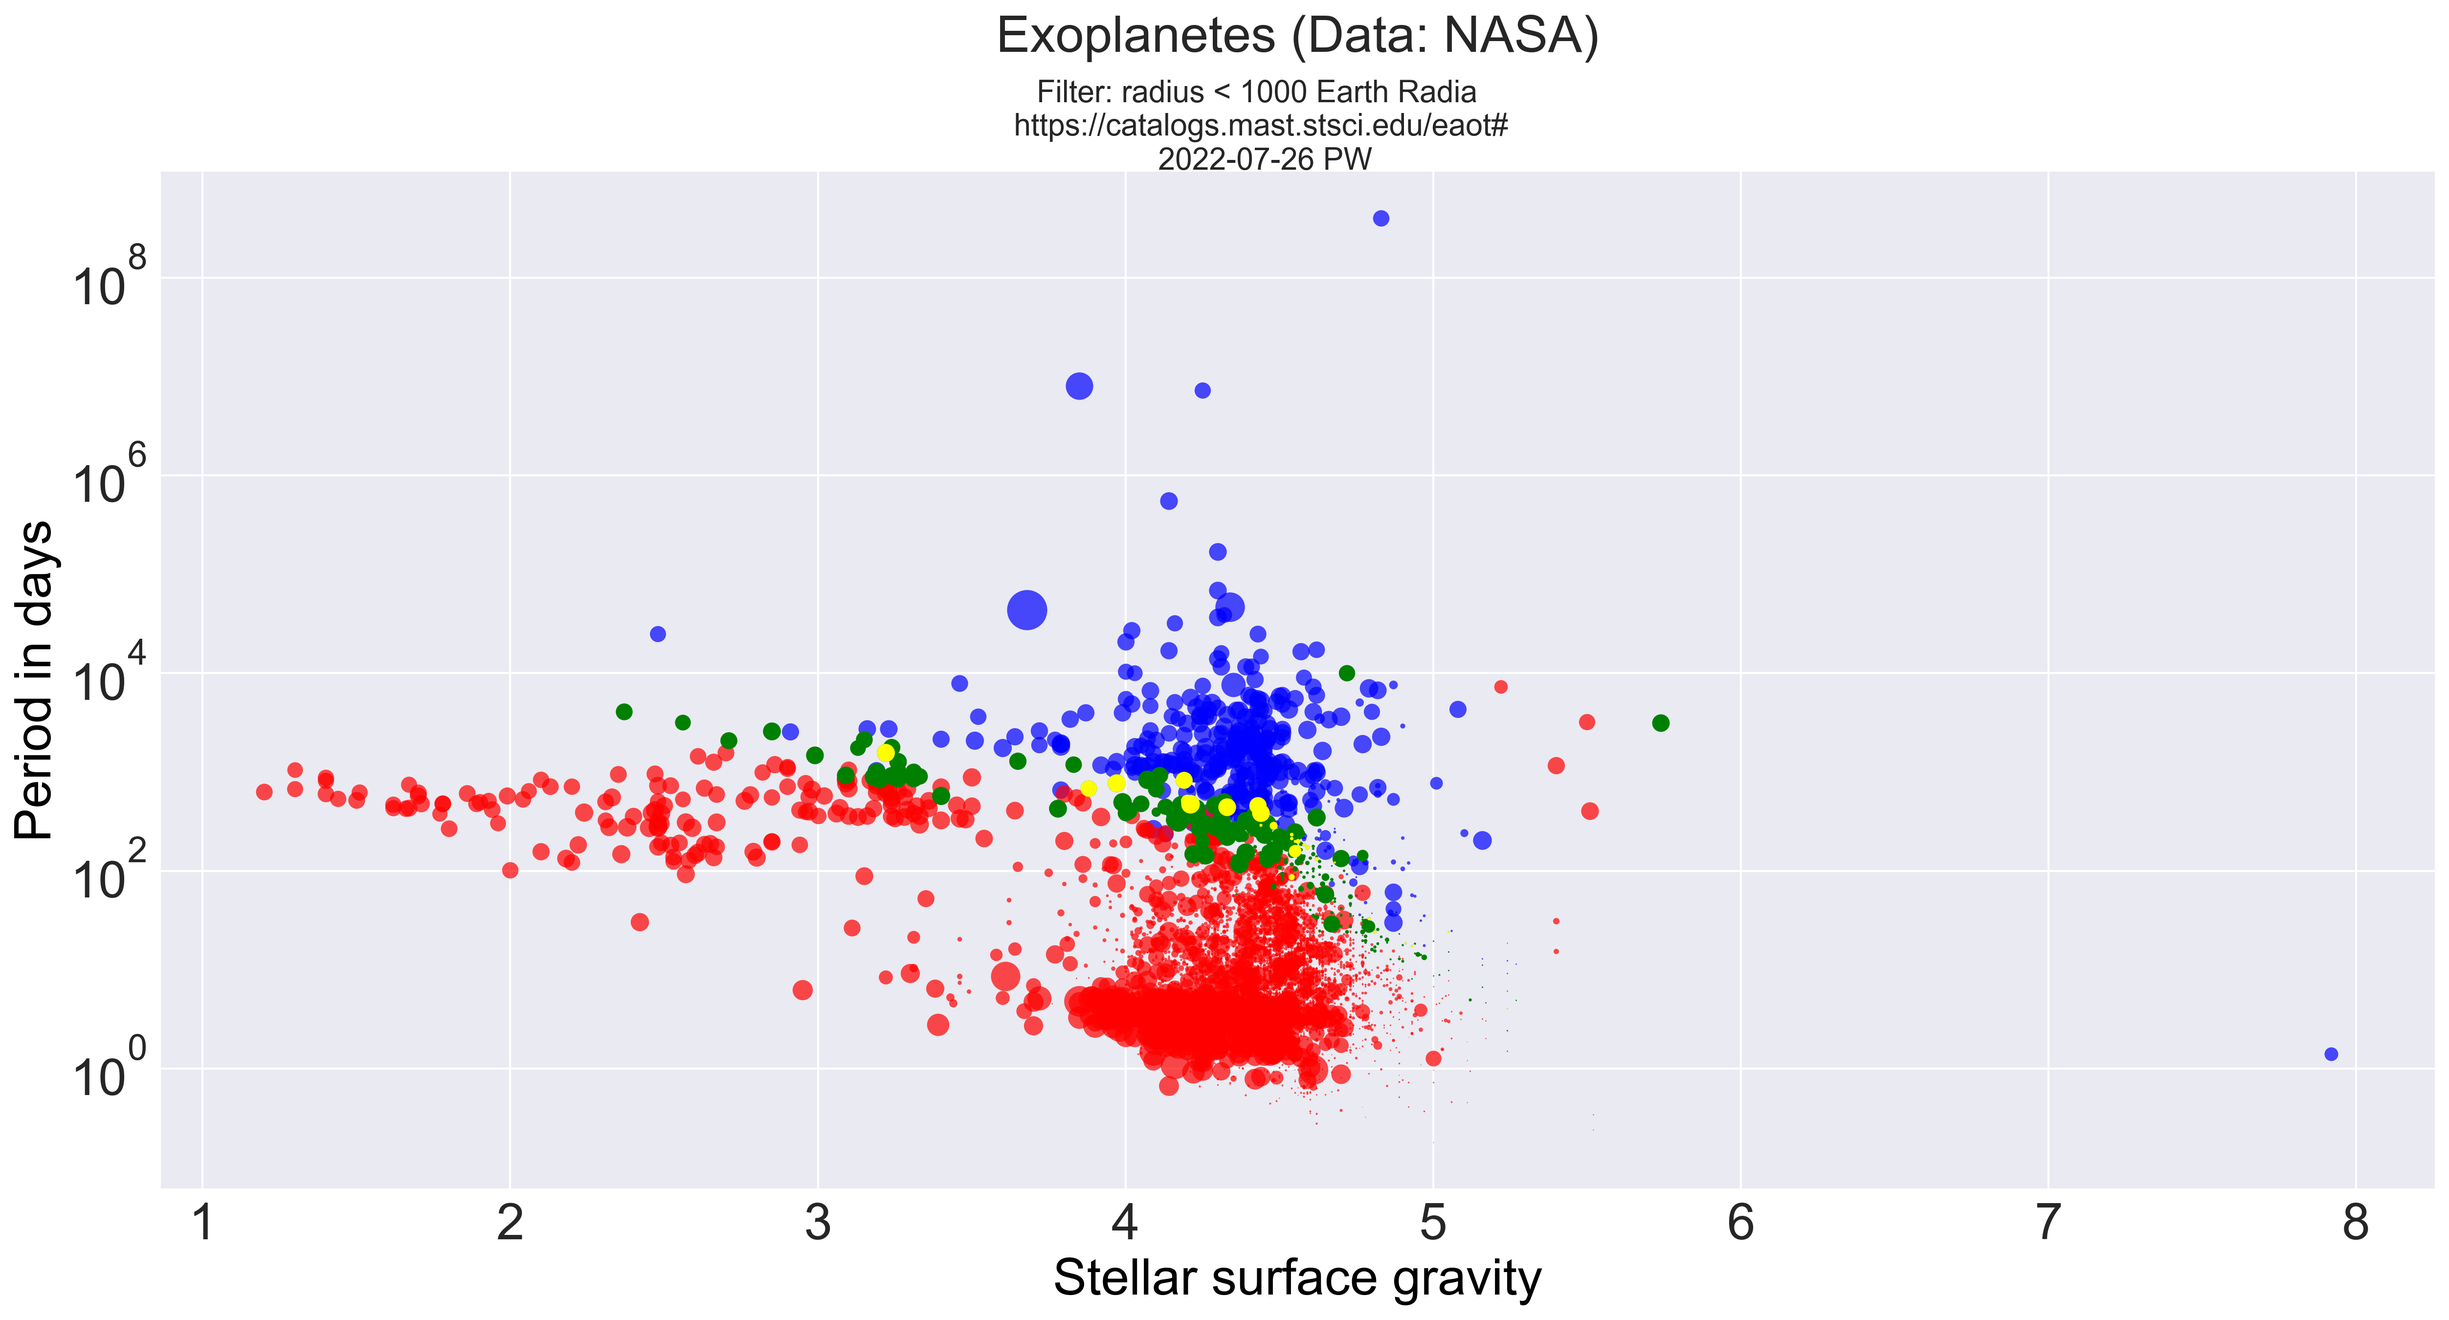
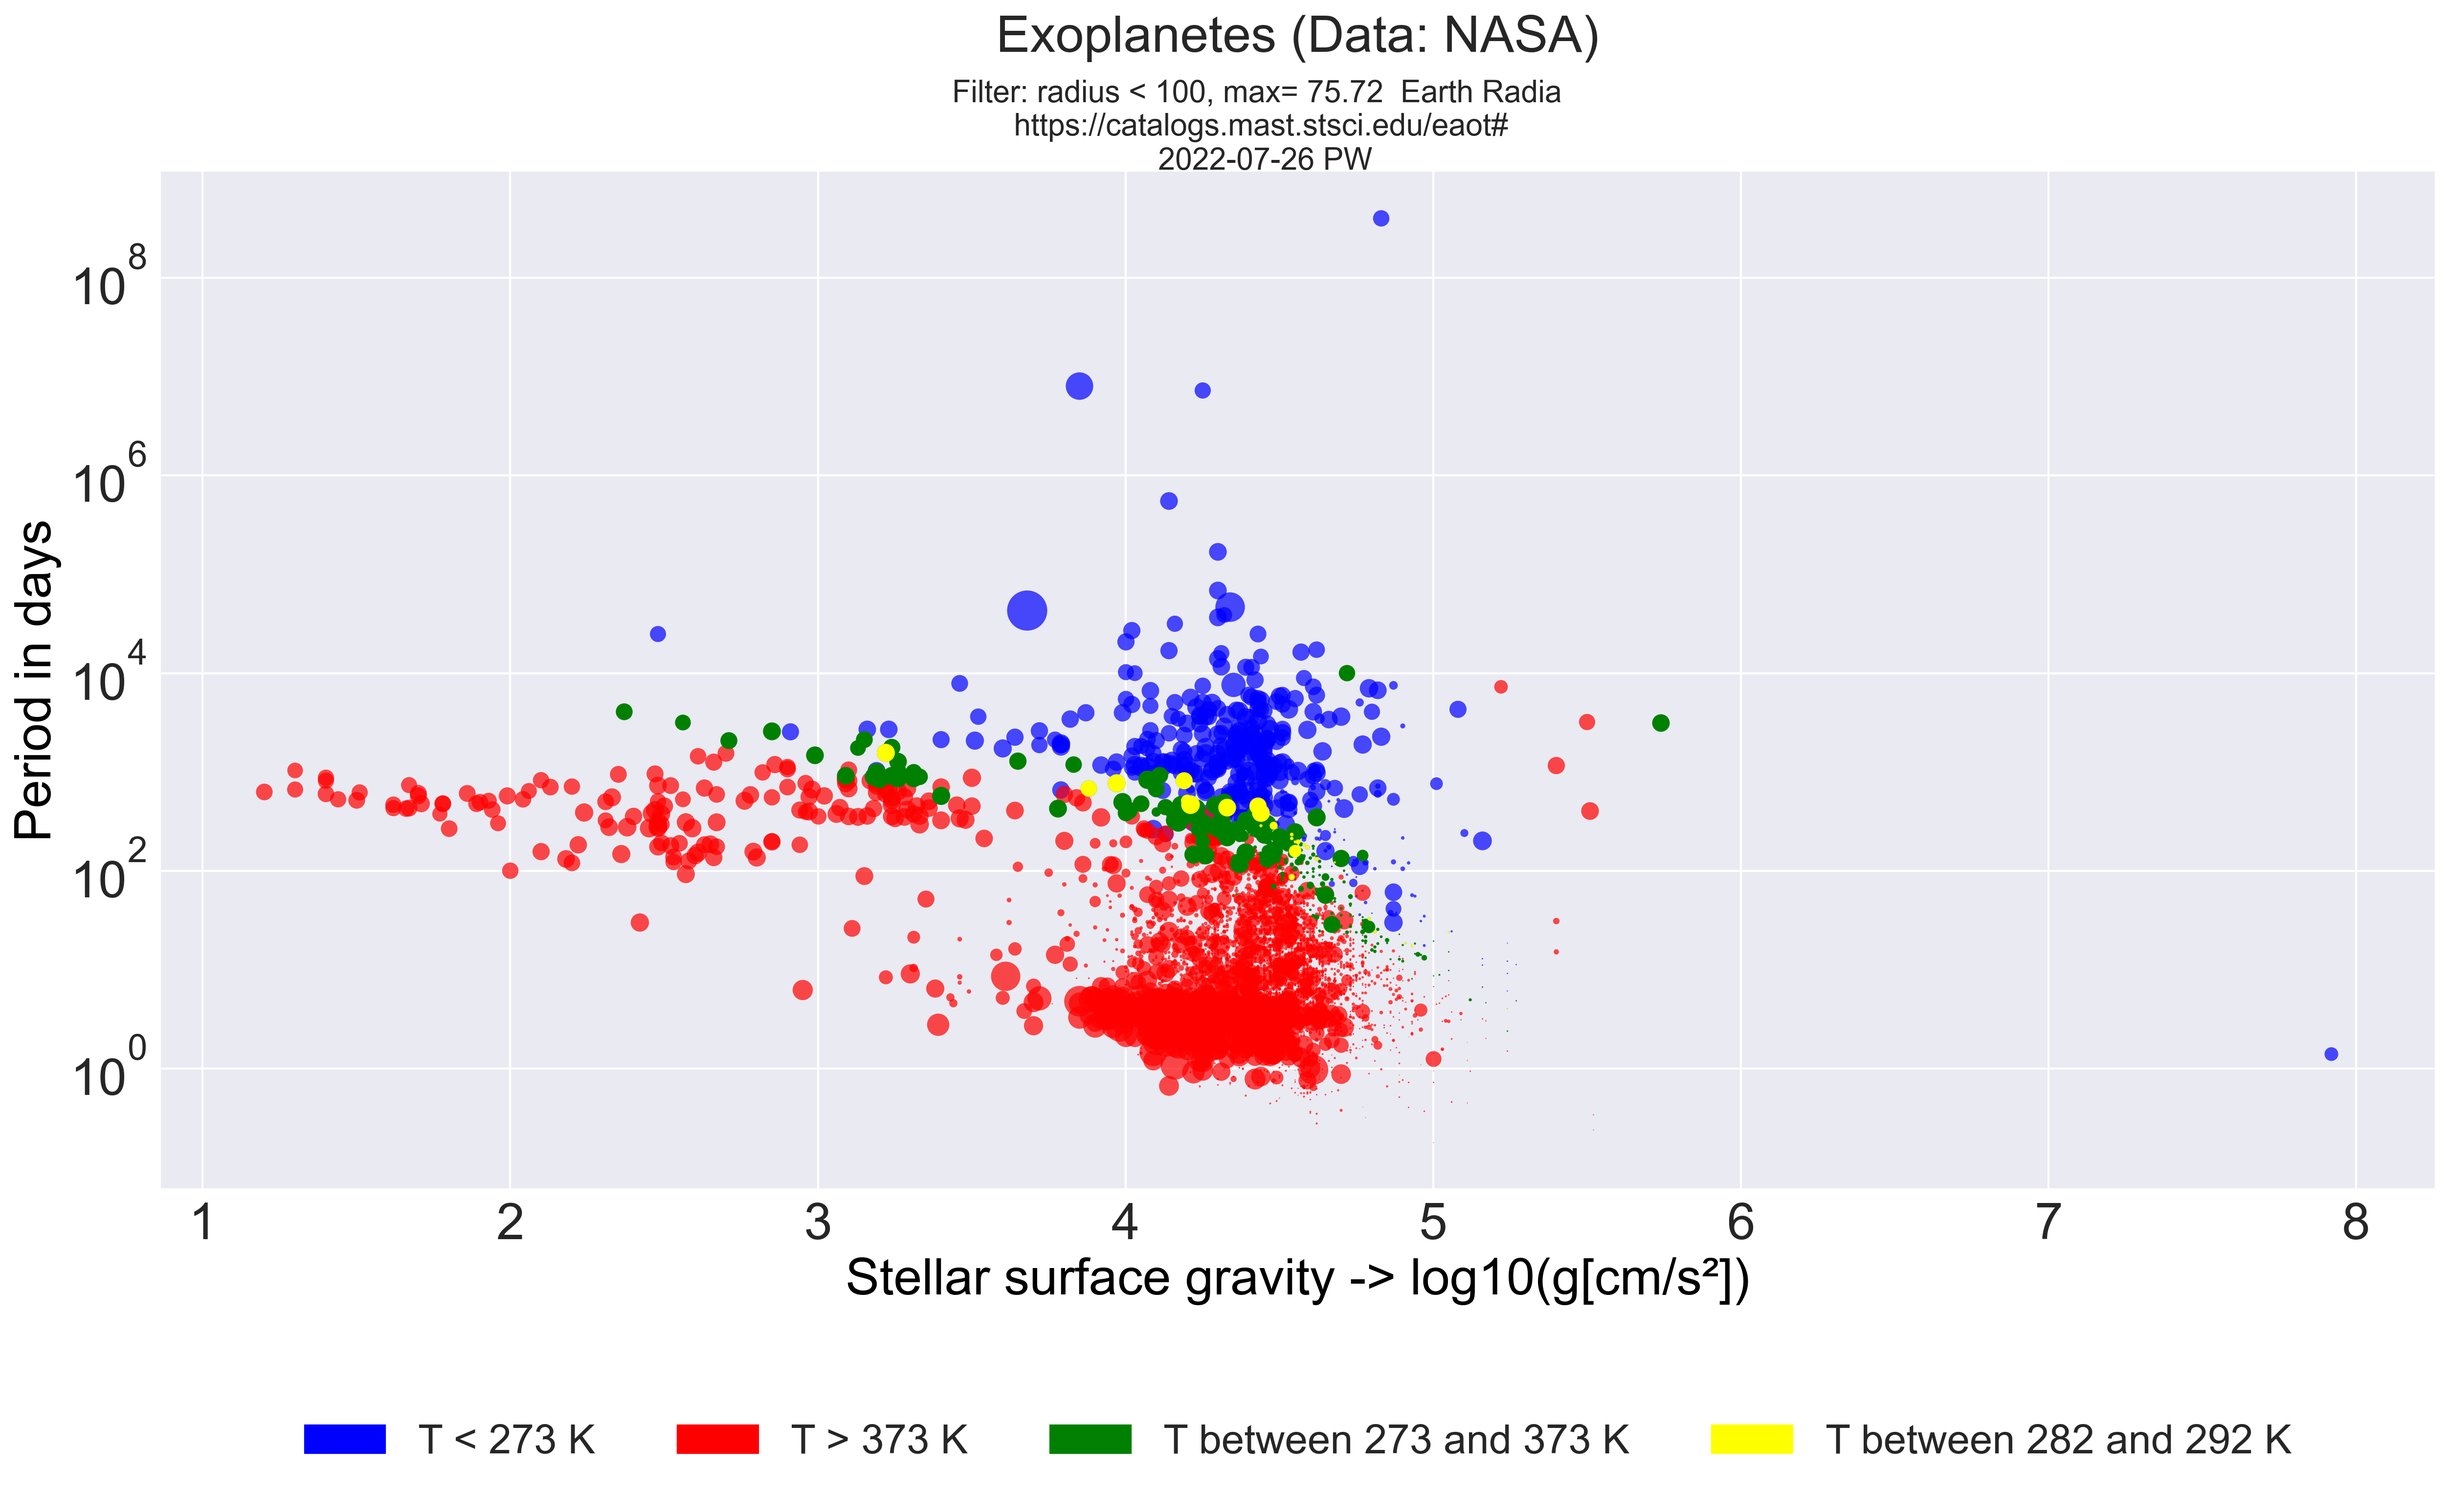
u

diff --git a/Exoplanets/f_07_visualize2.py b/Exoplanets/f_07_visualize2.py
@@ -1,7 +1,8 @@
 from matplotlib import pyplot as plt
 from matplotlib.ticker import FuncFormatter
+import matplotlib.patches as mpatches
 
-def f_visualize2(df, pfad, now, name_chart, filter_argument, filter_Rp_ERadia):
+def f_visualize2(df, pfad, now, name_chart, filter_argument, filter_Rp_ERadia, bool_textfield, max_größe):
 
     plt.clf()
 
@@ -48,32 +49,41 @@ def f_visualize2(df, pfad, now, name_chart, filter_argument, filter_Rp_ERadia):
            # markeredgecolor = 'white',
             label = "") for idx, row in df.iterrows()]
 
-    ax.set_xlabel("Stellar surface gravity", color="black", fontsize=25)
+    ax.set_xlabel("Stellar surface gravity -> log10(g[cm/s²])", color="black", fontsize=25)
     ax.set_ylabel("Period in days", color="black", fontsize=25)
     ax.set_yscale('log')
     # ax.set_xscale('log')
 
     ax.tick_params(labelsize=25)
 
-    # plt.legend(loc='center',
-    #            bbox_to_anchor=(0.5, -0.25),
-    #            fancybox=True,
-    #            shadow=True,
-    #            ncol=3,
-    #            fontsize=20)
+    red_patch = mpatches.Patch(color='red', label = 'T > 373 K')
+    blue_patch = mpatches.Patch(color='blue', label = 'T < 273 K')
+    yellow_patch = mpatches.Patch(color='yellow', label = 'T between 282 and 292 K')
+    green_patch = mpatches.Patch(color='green', label = 'T between 273 and 373 K')
+    # ax.legend(handles=[red_patch])
+
+    plt.legend(loc='center',
+                handles=[blue_patch, red_patch, green_patch, yellow_patch],
+                bbox_to_anchor=(0.5, -0.25),
+                fancybox=True,
+                shadow=True,
+                ncol=4,
+                fontsize=20)
 
     plt.title(f' Exoplanetes (Data: NASA) \n\n', fontsize=25)
 
 
     # place a text box in upper left in axes coords
     #      (x, y)
-    # ax.text(0.05, 0.76, "Mars", transform=ax.transAxes, fontsize=16, verticalalignment='top')
-    # ax.text(0.05, 0.71, "Earth", transform=ax.transAxes, fontsize=16, verticalalignment='top')
-    # ax.text(0.05, 0.665, "Venus", transform=ax.transAxes, fontsize=16, verticalalignment='top')
-    # ax.text(0.05, 0.59, "Mercury", transform=ax.transAxes, fontsize=16, verticalalignment='top')
-    # ax.text(0.78, 0.72, "Kepler-452 b", transform=ax.transAxes, fontsize=16, verticalalignment='top')
-    # ax.text(0.73, 0.61, "Kepler-62 e", transform=ax.transAxes, fontsize=16, verticalalignment='top')
 
-    plt.suptitle(f'Filter: radius {filter_argument} {filter_Rp_ERadia} Earth Radia \n https://catalogs.mast.stsci.edu/eaot# \n {now} PW', fontsize=15, y=0.95)
+    if bool_textfield == True:
+        ax.text(0.397, 0.98, "Mars", transform=ax.transAxes, fontsize=16, verticalalignment='top')
+        ax.text(0.397, 0.915, "Earth", transform=ax.transAxes, fontsize=16, verticalalignment='top')
+        ax.text(0.397, 0.86, "Venus", transform=ax.transAxes, fontsize=16, verticalalignment='top')
+        ax.text(0.397, 0.76, "Mercury", transform=ax.transAxes, fontsize=16, verticalalignment='top')
+        """     ax.text(0.78, 0.72, "Kepler-452 b", transform=ax.transAxes, fontsize=16, verticalalignment='top')
+        ax.text(0.73, 0.61, "Kepler-62 e", transform=ax.transAxes, fontsize=16, verticalalignment='top') """
+
+    plt.suptitle(f'Filter: radius {filter_argument} {filter_Rp_ERadia}, max= {max_größe}  Earth Radia \n https://catalogs.mast.stsci.edu/eaot# \n {now} PW', fontsize=15, y=0.95)
 
     plt.savefig(f'{pfad}{name_chart}.png', dpi=300, bbox_inches='tight')

diff --git a/Exoplanets/f_01_main.py b/Exoplanets/f_01_main.py
@@ -1,4 +1,5 @@
-from matplotlib.cbook import print_cycles
+import os
+# from matplotlib.cbook import print_cycles
 from f_02_now import f_now
 from f_03_options import f_options
 from f_04_df import f_df
@@ -13,12 +14,13 @@ now = f_now()
 bool_period_Earth = f_options()
 
 # function 04
-pfad = "D:\\Github\\Science\\Exoplanets\\"
+
+# pfad = "D:\\Github\\Science\\Exoplanets\\"
+pfad = str(os.path.abspath(os.getcwd()))+ "\\"
 
 
+# 
 df = f_df(pfad)
-
-# function 05
 df = f_solarSystem(df)
 
 # filter
@@ -29,32 +31,36 @@ df, max_größe = f_df_filter(df, filter_Rp_ERadia, bubble_size, filter_argument
 
 # function 06
 name_chart = "Exoplanets_1"
-f_visualize1(df, pfad, now, name_chart, filter_argument, filter_Rp_ERadia)
+f_visualize1(df, pfad, now, name_chart, filter_argument, filter_Rp_ERadia, max_größe)
 
 
 # function 07
 df = f_df(pfad)
 # filter
-filter_Rp_ERadia = 1000
+filter_Rp_ERadia = 100
 bubble_size = 100
 filter_argument = "<"
 df, max_größe = f_df_filter(df, filter_Rp_ERadia, bubble_size, filter_argument)
 
 # filter
 name_chart = "Exoplanets_2"
-f_visualize2(df, pfad, now, name_chart, filter_argument, filter_Rp_ERadia)
+bool_textfield = False
+f_visualize2(df, pfad, now, name_chart, filter_argument, filter_Rp_ERadia, bool_textfield, max_größe)
 
 
 # function 08
 df = f_df(pfad)
+df = f_solarSystem(df)
 # filter
 filter_Rp_ERadia = 2
 bubble_size = 30
 filter_argument = "<"
+
 df, max_größe = f_df_filter(df, filter_Rp_ERadia, bubble_size, filter_argument)
 
 name_chart = "Exoplanets_3"
-f_visualize2(df, pfad, now, name_chart, filter_argument, filter_Rp_ERadia)
+bool_textfield = True
+f_visualize2(df, pfad, now, name_chart, filter_argument, filter_Rp_ERadia, bool_textfield, max_größe)
 
 
 # function 08
@@ -66,7 +72,8 @@ filter_argument = ">"
 df, max_größe = f_df_filter(df, filter_Rp_ERadia, bubble_size, filter_argument)
 
 name_chart = "Exoplanets_4"
-f_visualize2(df, pfad, now, name_chart, filter_argument, filter_Rp_ERadia)
+bool_textfield = False
+f_visualize2(df, pfad, now, name_chart, filter_argument, filter_Rp_ERadia, bool_textfield, max_größe)
 
 
 print('fertig')

diff --git a/Exoplanets/f_06_visualize1.py b/Exoplanets/f_06_visualize1.py
@@ -1,7 +1,8 @@
 from matplotlib import pyplot as plt
 from matplotlib.ticker import FuncFormatter
+import matplotlib.patches as mpatches
 
-def f_visualize1(df, pfad, now, name_chart, filter_argument, filter_Rp_ERadia):
+def f_visualize1(df, pfad, now, name_chart, filter_argument, filter_Rp_ERadia, max_größe):
 
     plt.clf()
 
@@ -55,12 +56,19 @@ def f_visualize1(df, pfad, now, name_chart, filter_argument, filter_Rp_ERadia):
 
     ax.tick_params(labelsize=25)
 
-    # plt.legend(loc='center',
-    #            bbox_to_anchor=(0.5, -0.25),
-    #            fancybox=True,
-    #            shadow=True,
-    #            ncol=3,
-    #            fontsize=20)
+    red_patch = mpatches.Patch(color='red', label = 'T > 373 K')
+    blue_patch = mpatches.Patch(color='blue', label = 'T < 273 K')
+    yellow_patch = mpatches.Patch(color='yellow', label = 'T between 282 and 292 K')
+    green_patch = mpatches.Patch(color='green', label = 'T between 273 and 373 K')
+    # ax.legend(handles=[red_patch])
+
+    plt.legend(loc='center',
+                handles=[blue_patch, red_patch, green_patch, yellow_patch],
+                bbox_to_anchor=(0.5, -0.25),
+                fancybox=True,
+                shadow=True,
+                ncol=4,
+                fontsize=20)
 
     plt.title(f' Exoplanetes (Data: NASA) \n\n', fontsize=25)
 
@@ -74,5 +82,5 @@ def f_visualize1(df, pfad, now, name_chart, filter_argument, filter_Rp_ERadia):
     ax.text(0.78, 0.72, "Kepler-452 b", transform=ax.transAxes, fontsize=16, verticalalignment='top')
     ax.text(0.73, 0.61, "Kepler-62 e", transform=ax.transAxes, fontsize=16, verticalalignment='top')
 
-    plt.suptitle(f'Filter: radius {filter_argument} {filter_Rp_ERadia} Earth Radia \n https://catalogs.mast.stsci.edu/eaot# \n {now} PW', fontsize=15, y=0.95)
+    plt.suptitle(f'Filter: radius {filter_argument} {filter_Rp_ERadia}, max= {max_größe} Earth Radia \n https://catalogs.mast.stsci.edu/eaot# \n {now} PW', fontsize=15, y=0.95)
     plt.savefig(f'{pfad}{name_chart}.png', dpi=300, bbox_inches='tight')

diff --git a/Exoplanets/f_05_solarSystem.py b/Exoplanets/f_05_solarSystem.py
@@ -10,7 +10,8 @@ def f_solarSystem(df):
             'Teff': '',
             'Rp_ERadia': 1.0,
             'Distance_LJ': 1,
-            'period_Earth': 365
+            'period_Earth': 365,
+            'log10g_s': 4.43
         }
 
     dict_Mercury = {'Planet_Name': 'Mercury',
@@ -23,7 +24,8 @@ def f_solarSystem(df):
             'Teff': '',
             'Rp_ERadia': 0.3829,
             'Distance_LJ': 1,
-            'period_Earth': 365
+            'period_Earth': 365,
+            'log10g_s': 4.43
         }
 
     dict_Mars = {'Planet_Name': 'Mars',
@@ -36,7 +38,8 @@ def f_solarSystem(df):
             'Teff': '',
             'Rp_ERadia': 0.533,
             'Distance_LJ': 1,
-            'period_Earth': 365
+            'period_Earth': 365,
+            'log10g_s': 4.43
         }
 
     dict_Venus = {'Planet_Name': 'Venus',
@@ -49,14 +52,13 @@ def f_solarSystem(df):
             'Teff': '',
             'Rp_ERadia': 0.9499,
             'Distance_LJ': 1,
-            'period_Earth': 365
+            'period_Earth': 365,
+            'log10g_s': 4.43
         }
 
     df = df.append(dict_Earth, ignore_index = True)
     df = df.append(dict_Mercury, ignore_index = True)
     df = df.append(dict_Mars, ignore_index = True)
     df = df.append(dict_Venus, ignore_index = True)
-
-    df.head(-1)
 
     return(df)
